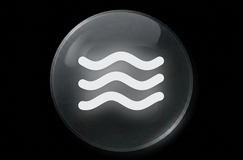
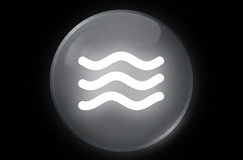
Level-matched reverb/echo, lit ambient button, desktop effect preview
- Ambient and slider levels measured to stay within about 2 dB of the
  original (dry signal lowered as reverb/echo rise)
- Brighter on-state for the ambient button
- tools/fx_preview renders a song with the real processor for tuning

Claude-Session: https://claude.ai/code/session_016d9f73QEkp7mD47LHtHqjt

Changed region(s): [[0.2305, 0.1562, 0.8066, 0.9375]]

diff --git a/lib/debug/ambient_tuning.dart b/lib/debug/ambient_tuning.dart
@@ -25,12 +25,14 @@ class AmbientTuning {
 
   // ---- Reverb (Freeverb) ----------------------------------------------
 
-  /// Level of the dry (original) signal. Slightly below 1 leaves headroom
-  /// for the reverb and pushes the song "back into the room".
-  static const double dry = 0.85;
+  /// Level of the dry (original) signal. Below 1 makes room for the reverb
+  /// so ambient is not louder than the original (these defaults measure
+  /// about +1 dB) and pushes the song "back into the room".
+  static const double dry = 0.72;
 
-  /// Reverb level, 0..1. 0.35 is lush; above 0.6 gets washy.
-  static const double reverbWet = 0.38;
+  /// Reverb level, 0..1. 0.25 is lush; above 0.4 gets washy and loud
+  /// (lower [dry] to compensate).
+  static const double reverbWet = 0.25;
 
   /// Room size, 0..1. Controls how long the tail lasts.
   /// 0.5 = small room, 0.85 = hall, 0.95 = cathedral.
@@ -49,7 +51,7 @@ class AmbientTuning {
   // ---- Echo (delay) ---------------------------------------------------
 
   /// Echo level, 0..1. Keep it subtle; reverb does most of the work.
-  static const double echoWet = 0.18;
+  static const double echoWet = 0.12;
 
   /// Time between repeats, in ms (1..2000). 300 to 450 suits slowed songs.
   static const double echoMs = 420;
@@ -72,7 +74,7 @@ class FxTuning {
   static const List<double> stops = [0, 0.25, 0.5, 0.75, 1.0];
 
   // Reverb at full (slider at 100%).
-  static const double reverbWetMax = 0.55;
+  static const double reverbWetMax = 0.32;
   static const double roomSize = 0.82;
   static const double damping = 0.4;
   static const double width = 1.0;
@@ -83,6 +85,12 @@ class FxTuning {
   static const double echoMs = 360;
   static const double echoFeedback = 0.38;
   static const double echoToneHz = 3500;
+
+  /// The original signal is lowered as reverb/echo go up, so the sliders
+  /// add space without making songs louder (measured within ±2 dB).
+  /// dry = 1 - dryDuckReverb * reverb - dryDuckEcho * echo.
+  static const double dryDuckReverb = 0.30;
+  static const double dryDuckEcho = 0.10;
 
   /// Fade time when a slider moves, in ms.
   static const double fadeMs = 150;

diff --git a/lib/state/player_controller.dart b/lib/state/player_controller.dart
@@ -319,7 +319,9 @@ class PlayerController extends ChangeNotifier {
       );
     } else {
       AudioFx.apply(
-        dry: 1.0,
+        dry: 1.0 -
+            FxTuning.dryDuckReverb * reverb -
+            FxTuning.dryDuckEcho * echo,
         reverbWet: reverb * FxTuning.reverbWetMax,
         roomSize: FxTuning.roomSize,
         damping: FxTuning.damping,

diff --git a/tools/fx_preview/preview.py b/tools/fx_preview/preview.py
@@ -1,0 +1,69 @@
+"""Renders a song through müslic's ambient (slowed + reverb) effect on your
+computer, using the exact Java processor the app runs on Android, so you can
+tune lib/debug/ambient_tuning.dart by ear without rebuilding the app.
+
+Needs Java (JDK 11+) and ffmpeg on PATH.
+
+    python tools/fx_preview/preview.py song.mp3            -> song_ambient.wav
+    python tools/fx_preview/preview.py song.mp3 --compare  -> also song_original.wav
+
+Speed and pitch are applied with ffmpeg (a close stand-in for the phone's
+Sonic processor; with speed == pitch they are the same "slowed" effect).
+"""
+import pathlib, re, subprocess, sys, tempfile
+
+ROOT = pathlib.Path(__file__).resolve().parents[2]
+HERE = pathlib.Path(__file__).resolve().parent
+TUNING = ROOT / "lib/debug/ambient_tuning.dart"
+FX = ROOT / "packages/just_audio/android/src/main/java/com/ryanheise/just_audio/FxAudioProcessor.java"
+
+
+def ambient_values():
+    text = TUNING.read_text()
+    body = text.split("class AmbientTuning")[1].split("class FxTuning")[0]
+    vals = {k: float(v) for k, v in re.findall(r"static const double (\w+) = ([0-9.]+);", body)}
+    return vals
+
+
+def main():
+    if len(sys.argv) < 2:
+        sys.exit(__doc__)
+    song = pathlib.Path(sys.argv[1]).resolve()
+    v = ambient_values()
+    sr = 48000
+    with tempfile.TemporaryDirectory() as tmp:
+        tmp = pathlib.Path(tmp)
+        src = tmp / "src/com/ryanheise/just_audio"
+        src.mkdir(parents=True)
+        (src / "FxAudioProcessor.java").write_text(FX.read_text())
+        (src / "Harness.java").write_text((HERE / "Harness.java").read_text())
+        java_files = [str(p) for p in (HERE / "stubs").rglob("*.java")] + [str(p) for p in src.glob("*.java")]
+        subprocess.run(["javac", "-d", str(tmp / "out"), *java_files], check=True)
+
+        slowed = tmp / "slowed.raw"
+        # Speed and pitch together = resample (like a record played slow).
+        # If they differ, atempo fixes the remaining tempo difference.
+        rate = v["pitch"]
+        tempo = v["speed"] / v["pitch"]
+        af = f"asetrate={sr}*{rate},aresample={sr}"
+        if abs(tempo - 1) > 1e-3:
+            af += f",atempo={tempo}"
+        subprocess.run(["ffmpeg", "-hide_banner", "-loglevel", "error", "-y", "-i", str(song),
+                        "-af", af, "-f", "s16le", "-ac", "2", "-ar", str(sr), str(slowed)], check=True)
+        wet = tmp / "wet.raw"
+        args = [v["dry"], v["reverbWet"], v["roomSize"], v["damping"], v["width"], v["preDelayMs"],
+                v["echoWet"], v["echoMs"], v["echoFeedback"], v["echoToneHz"]]
+        subprocess.run(["java", "-cp", str(tmp / "out"), "com.ryanheise.just_audio.Harness",
+                        str(slowed), str(wet), str(sr), *map(str, args)], check=True)
+        out = song.with_name(song.stem + "_ambient.wav")
+        subprocess.run(["ffmpeg", "-hide_banner", "-loglevel", "error", "-y", "-f", "s16le", "-ac", "2",
+                        "-ar", str(sr), "-i", str(wet), str(out)], check=True)
+        print("wrote", out)
+        if "--compare" in sys.argv:
+            orig = song.with_name(song.stem + "_original.wav")
+            subprocess.run(["ffmpeg", "-hide_banner", "-loglevel", "error", "-y", "-i", str(song), str(orig)], check=True)
+            print("wrote", orig)
+
+
+if __name__ == "__main__":
+    main()

diff --git a/tools/fx_preview/Harness.java b/tools/fx_preview/Harness.java
@@ -1,0 +1,26 @@
+// Test harness for FxAudioProcessor (used by preview.py).
+package com.ryanheise.just_audio;
+import androidx.media3.common.C; import androidx.media3.common.audio.AudioProcessor.AudioFormat;
+import java.io.*; import java.nio.*;
+// Feeds raw 16-bit stereo PCM through FxAudioProcessor in 4096-frame chunks.
+// args: in.raw out.raw rate dry rev room damp width pre delWet delMs fb tone
+public class Harness {
+  public static void main(String[] a) throws Exception {
+    byte[] in = java.nio.file.Files.readAllBytes(new File(a[0]).toPath());
+    int sr = Integer.parseInt(a[2]);
+    FxAudioProcessor p = new FxAudioProcessor();
+    p.configure(new AudioFormat(sr, 2, C.ENCODING_PCM_16BIT));
+    float[] v = new float[10]; for (int i=0;i<10;i++) v[i]=Float.parseFloat(a[3+i]);
+    p.setParams(v[0],v[1],v[2],v[3],v[4],v[5],v[6],v[7],v[8],v[9],1f);
+    OutputStream out = new BufferedOutputStream(new FileOutputStream(a[1]));
+    int chunk = 4096*4; long t0=System.nanoTime();
+    for (int off=0; off<in.length; off+=chunk) {
+      int n = Math.min(chunk, in.length-off);
+      ByteBuffer b = ByteBuffer.allocateDirect(n).order(ByteOrder.nativeOrder()); b.put(in, off, n); b.flip();
+      p.queueInput(b); ByteBuffer o = p.getOutput(); byte[] tmp = new byte[o.remaining()]; o.get(tmp); out.write(tmp);
+    }
+    out.close();
+    double secs=(System.nanoTime()-t0)/1e9, audio=in.length/4.0/sr;
+    System.err.printf("processed %.1fs of audio in %.3fs (%.0fx realtime)%n", audio, secs, audio/secs);
+  }
+}

diff --git a/ci/make_ambient_button.py b/ci/make_ambient_button.py
@@ -32,12 +32,19 @@ for k, dy in enumerate([-gap, 0, gap]):
 glyph = glyph.resize((W, H), Image.LANCZOS)
 shadow = glyph.filter(ImageFilter.GaussianBlur(10)).transform((W, H), Image.AFFINE, (1, 0, 0, 0, 1, -8))
 
+# Inside of the glass circle, for the "lit" on-state.
+disc = Image.new('L', (W, H), 0)
+ImageDraw.Draw(disc).ellipse((300, 90, 975, 772), fill=255)
+disc = disc.filter(ImageFilter.GaussianBlur(60))
+
 def compose(glow, alpha):
     out = Image.composite(Image.new('RGB', (W, H), (8, 8, 8)), base, shadow.point(lambda v: int(v * 0.5)))
     if glow:
-        g = glyph.filter(ImageFilter.GaussianBlur(40))
-        out = Image.composite(Image.new('RGB', (W, H), (255, 255, 255)), out, g.point(lambda v: int(v * 0.8)))
-    return Image.composite(Image.new('RGB', (W, H), (232, 234, 236)), out, glyph.point(lambda v: int(v * alpha)))
+        # The whole circle lights up softly, plus a bright halo on the waves.
+        out = Image.composite(Image.new('RGB', (W, H), (150, 150, 155)), out, disc.point(lambda v: int(v * 0.55)))
+        g = glyph.filter(ImageFilter.GaussianBlur(45))
+        out = Image.composite(Image.new('RGB', (W, H), (255, 255, 255)), out, g.point(lambda v: min(255, int(v * 1.1))))
+    return Image.composite(Image.new('RGB', (W, H), (255, 255, 255) if glow else (232, 234, 236)), out, glyph.point(lambda v: int(v * alpha)))
 
 for name, img in [('ambient', compose(False, 0.92)), ('ambient_on', compose(True, 1.0))]:
     img.save(f'{root}/ui_source/{name}.png')

diff --git a/tools/fx_preview/stubs/androidx/media3/common/audio/BaseAudioProcessor.java b/tools/fx_preview/stubs/androidx/media3/common/audio/BaseAudioProcessor.java
@@ -1,0 +1,15 @@
+package androidx.media3.common.audio;
+import java.nio.ByteBuffer; import java.nio.ByteOrder;
+// Minimal stand-in with the same contract as media3 1.4.1 for testing.
+public abstract class BaseAudioProcessor implements AudioProcessor {
+  protected AudioFormat inputAudioFormat = AudioFormat.NOT_SET, outputAudioFormat = AudioFormat.NOT_SET;
+  private ByteBuffer buffer = EMPTY_BUFFER, outputBuffer = EMPTY_BUFFER;
+  public final AudioFormat configure(AudioFormat in) throws UnhandledAudioFormatException { inputAudioFormat=in; outputAudioFormat=onConfigure(in); return outputAudioFormat; }
+  public abstract void queueInput(ByteBuffer b);
+  public ByteBuffer getOutput(){ ByteBuffer o=outputBuffer; outputBuffer=EMPTY_BUFFER; return o; }
+  public final void flush(){ outputBuffer=EMPTY_BUFFER; onFlush(); }
+  public final void reset(){ flush(); onReset(); }
+  protected final ByteBuffer replaceOutputBuffer(int size){ if(buffer.capacity()<size) buffer=ByteBuffer.allocateDirect(size).order(ByteOrder.nativeOrder()); else buffer.clear(); outputBuffer=buffer; return buffer; }
+  protected AudioFormat onConfigure(AudioFormat in) throws UnhandledAudioFormatException { return AudioFormat.NOT_SET; }
+  protected void onFlush(){} protected void onReset(){}
+}

diff --git a/tools/fx_preview/stubs/androidx/media3/common/audio/AudioProcessor.java b/tools/fx_preview/stubs/androidx/media3/common/audio/AudioProcessor.java
@@ -1,0 +1,11 @@
+package androidx.media3.common.audio;
+import java.nio.ByteBuffer;
+public interface AudioProcessor {
+  final class AudioFormat {
+    public static final AudioFormat NOT_SET = new AudioFormat(-1,-1,-1);
+    public final int sampleRate, channelCount, encoding;
+    public AudioFormat(int sr,int ch,int enc){sampleRate=sr;channelCount=ch;encoding=enc;}
+  }
+  final class UnhandledAudioFormatException extends Exception { public UnhandledAudioFormatException(AudioFormat f){super("unhandled");} }
+  ByteBuffer EMPTY_BUFFER = ByteBuffer.allocateDirect(0);
+}

diff --git a/tools/fx_preview/stubs/androidx/media3/common/C.java b/tools/fx_preview/stubs/androidx/media3/common/C.java
@@ -1,0 +1,2 @@
+package androidx.media3.common;
+public final class C { public static final int ENCODING_PCM_16BIT = 2; public static final int ENCODING_PCM_FLOAT = 4; }

diff --git a/README.md b/README.md
@@ -41,6 +41,31 @@ Values you can tune by hand:
 `test/screenshot_test.dart` renders the main screens with made-up songs; CI
 publishes the images to the `ci-logs` branch under `screenshots/`.
 
+
+## Sound effects (reverb, echo, ambient)
+
+Android has no built-in echo, and its built-in reverb is ignored on many
+phones, so müslic has its own. `packages/just_audio` is just_audio 0.9.46
+with three additions (all marked "müslic" in the code):
+
+- `FxAudioProcessor.java`: reverb (Freeverb) + echo (feedback delay),
+  smooth parameter changes, soft limiting so nothing clips
+- `FxProcessorChain.java`: runs it after the speed/pitch stage, so slowed
+  songs keep a natural reverb tail
+- `MuslicFx.java`: the `com.dotstudios.muslic/fx` channel used by
+  `lib/services/audio_fx.dart`
+- audio offload is turned off, because offloaded audio skips all effects
+
+Tuning: `lib/debug/ambient_tuning.dart` (ambient button and the Reverb/Echo
+sliders). To hear changes without rebuilding, render a song on your computer
+with the same processor (needs Java and ffmpeg):
+
+    python tools/fx_preview/preview.py song.mp3 --compare
+
+Other tuning files: `lib/debug/ui_tuning.dart` (button bounce, loop/shuffle
+size, scroll click volume and voices, carousel), `lib/debug/blur_tuning.dart`,
+and `lib/ui/skin.dart` for theme colours.
+
 ## Project layout
 
 ```
